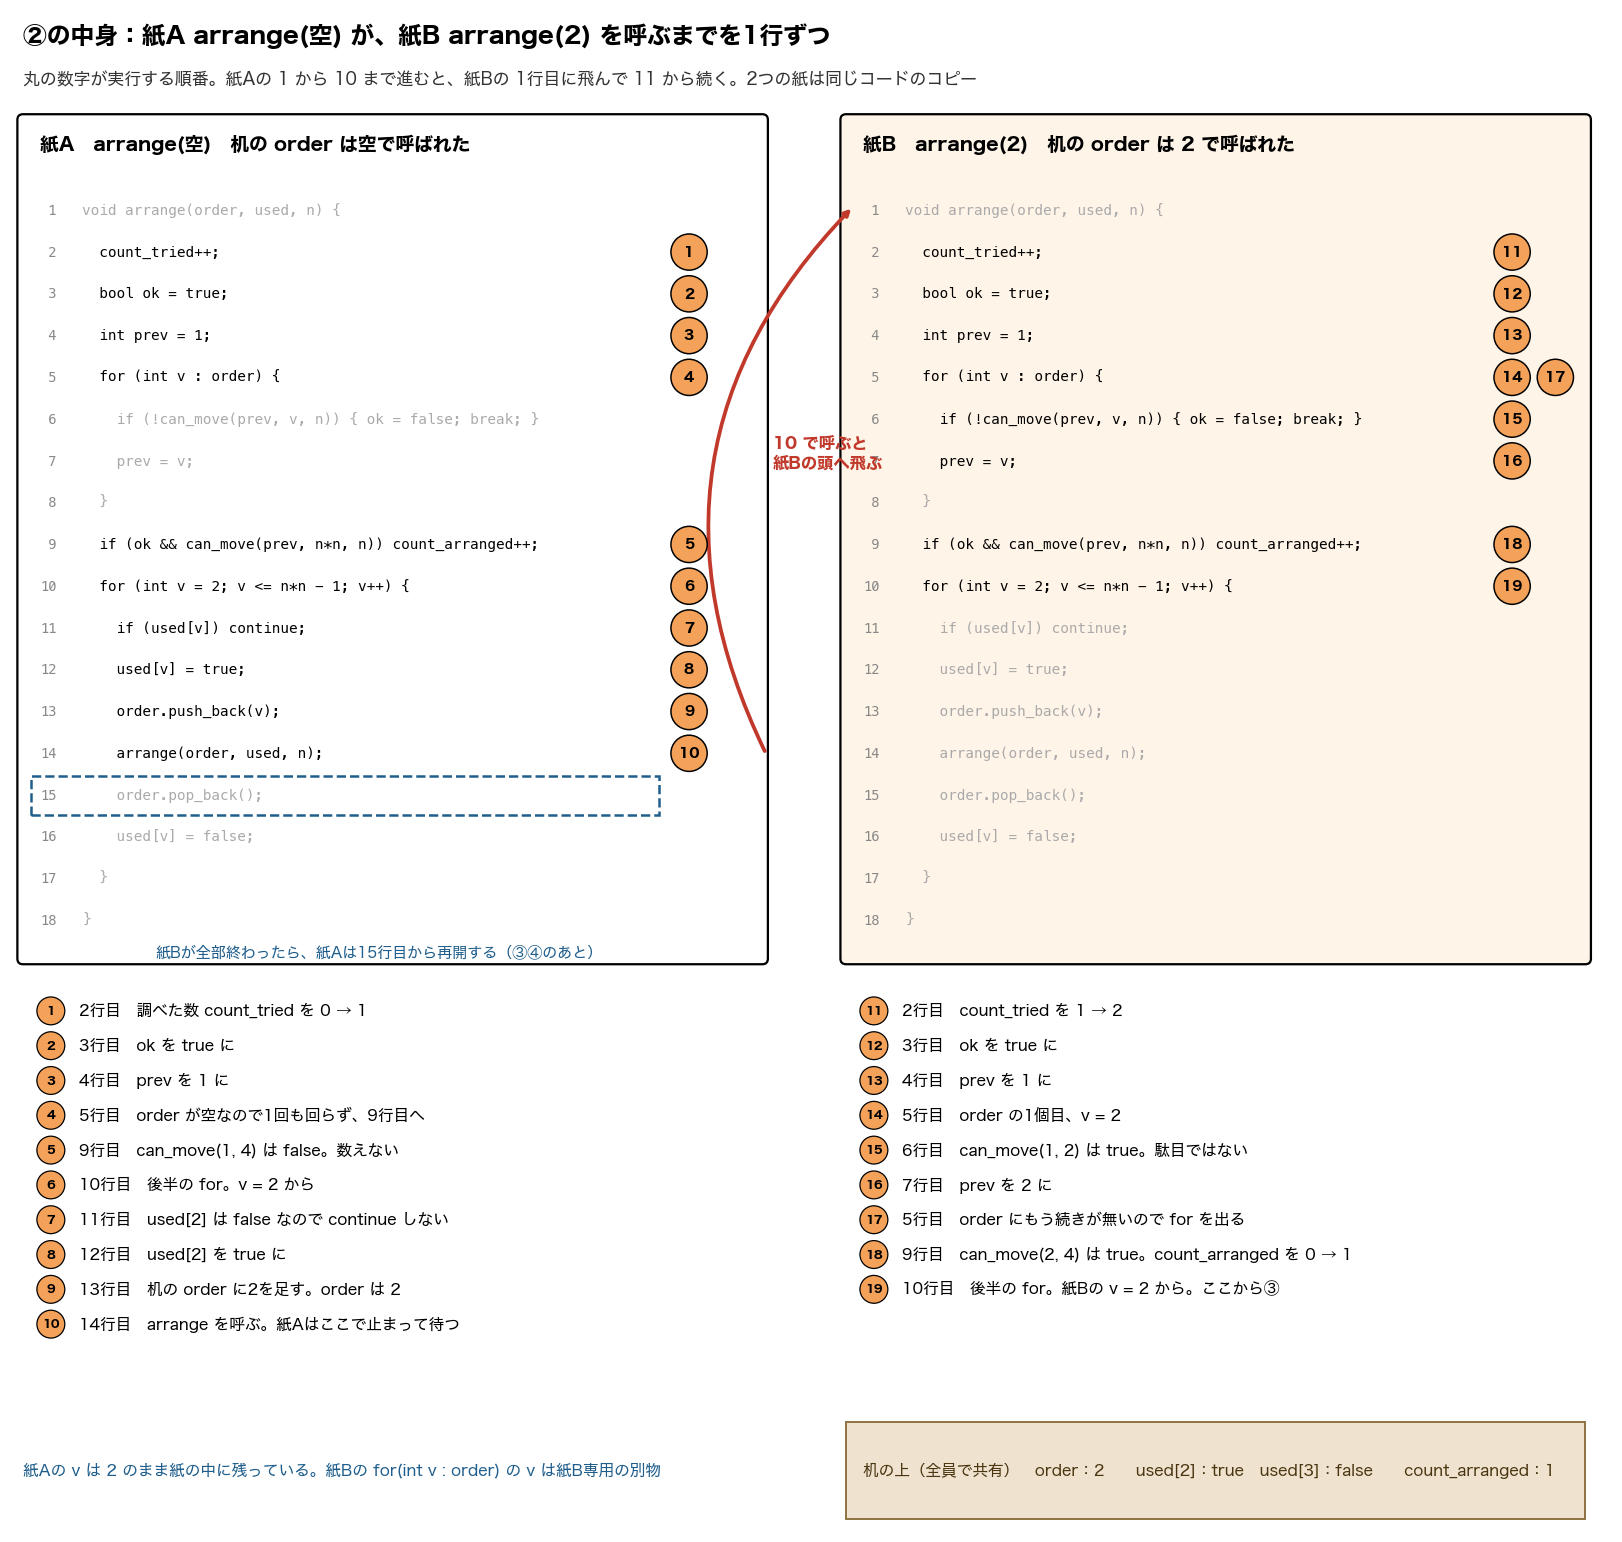
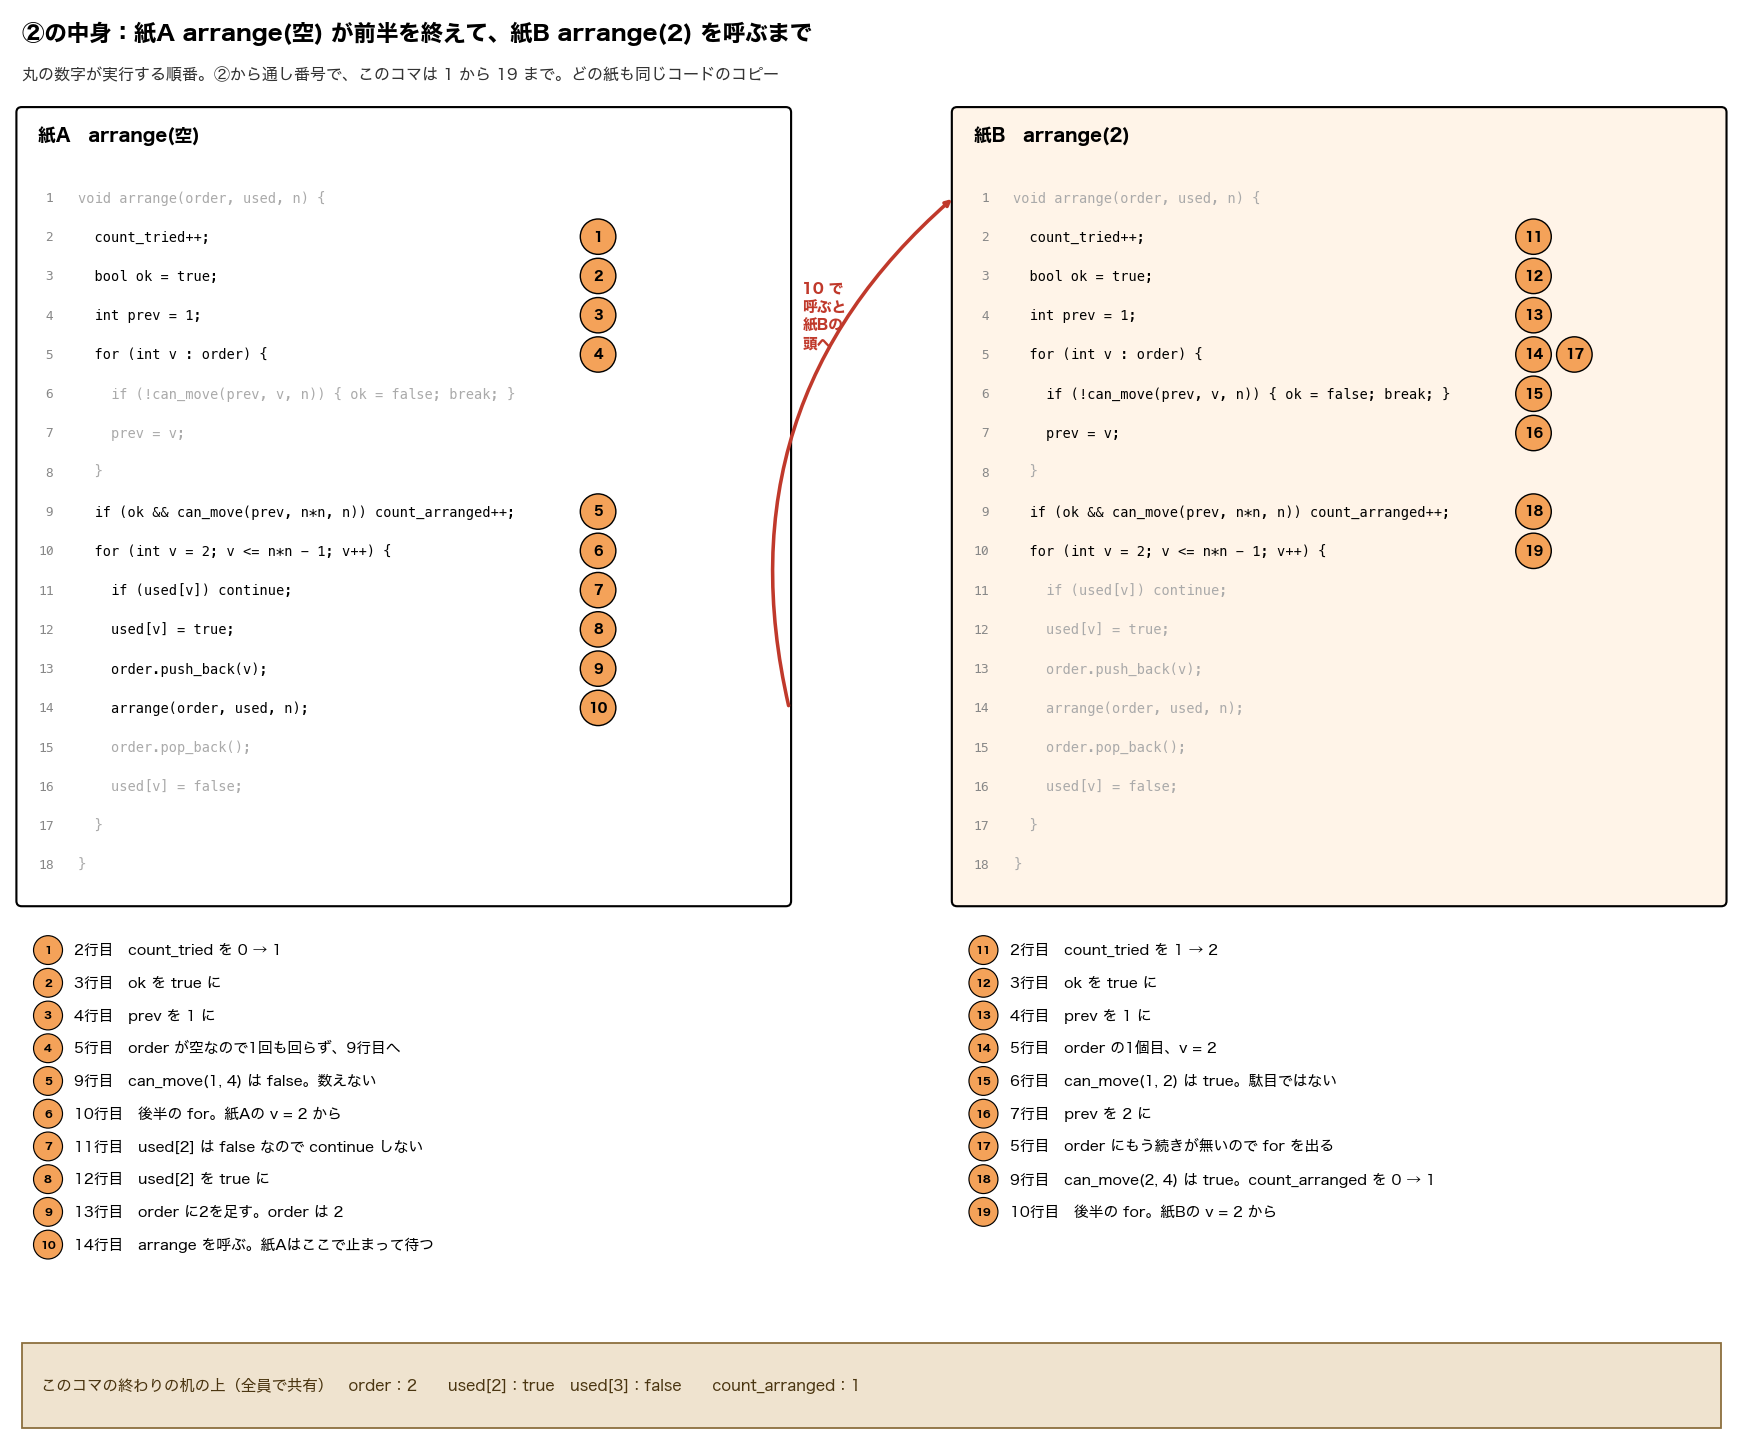
試問カードを更新 10/14 09:45

diff --git a/index.html b/index.html
@@ -97,7 +97,7 @@ table.trace td, table.trace th { text-align: left; }
   <header>
     <h1>実験F 試問カード</h1>
     <p class="when"><b>10/14(水) 10:15から</b>　S414、和佐先生の居室</p>
-    <p class="when">最終更新 <span id="updated">10/14 09:42</span>。青い印は10/14に自分で質問して足したカード</p>
+    <p class="when">最終更新 <span id="updated">10/14 09:45</span>。青い印は10/14に自分で質問して足したカード</p>
   </header>
 
   <div class="bar">
@@ -503,7 +503,6 @@ void arrange(std::vector&lt;int&gt; &amp;order, std::vector&lt;bool&gt; &amp;use
   }
 }</pre>
       <figure class="fig wide"><img src="図/解説図_F1-3_方法2を紙の重なりで.png" alt="arrange を呼ぶたびに同じ手順書の紙を上に重ね、終わったら捨てて下の紙が再開する様子の8コマ" loading="lazy"><figcaption>10/14に質問して足した図。関数を呼ぶと、同じ手順書の新しい紙が上に重なり、頭から実行される。下の紙は自分の v と止めた行を覚えて待つ。上の紙が終わると捨てて、下の紙が止めた行の次から再開する</figcaption></figure>
-      <figure class="fig wide"><img src="図/解説図_F1-3_方法2の②を1行ずつ.png" alt="arrange(空) が arrange(2) を呼ぶまでを行番号つきのコードで1行ずつ追った図" loading="lazy"><figcaption>10/14に質問して足した図。紙Aが14行目で arrange を呼ぶと、紙Aはそこで止まり、紙Bが1行目から同じコードを実行する。紙Bが全部終わると紙Aは15行目から再開する</figcaption></figure>
       <figure class="fig wide"><img src="図/解説図_F1-3_方法2のorderとusedの変化.png" alt="2×2で order と used が1手ずつどう変わるかの表" loading="lazy"><figcaption>10/14に質問して足した図。order の中身を変えるのは push_back と pop_back だけ。字下げが深いほど奥の呼び出し</figcaption></figure>
       <figure class="fig wide"><img src="図/解説図_F1-3_方法2のusedで飛ばす.png" alt="3×3の arrange(4, 5) で used が true の4と5を飛ばす図と、無いとどうなるか" loading="lazy"><figcaption>10/14に質問して足した図。used[v] が true の頂点は足さない。これが無いと同じ頂点を2回通り、再帰も止まらない</figcaption></figure>
       <ul class="pt">
@@ -526,6 +525,23 @@ void arrange(std::vector&lt;int&gt; &amp;order, std::vector&lt;bool&gt; &amp;use
         <li>main では order を空、used を n*n+1 個の false で作ってから arrange(order, used, n) を1回呼ぶ。3×3なら used は0から9の10個で、0番は使わない</li>
         <li>&amp; が無いと、呼ぶたびに order と used のコピーが作られる。&amp; があるので、何段呼んでも同じ1本の配列を全員で使う</li>
         <li>関数の終わりまで来ると、呼び出し元の for の続きに戻る。最初の呼び出しの for が終わると全体が終わる</li>
+      </ul>
+    </div></details>
+
+    <details class="card" id="f1-3-gyou2"><summary><span class="q">方法2を2×2で1行ずつ、紙の重なりの全コマで追うと？</span><span class="chip new">10/14に質問</span></summary><div class="a">
+      <p class="say">arrange を呼ぶと、同じコードの新しい紙が上に重なって1行目から実行されます。呼んだ側の紙は14行目で止まって待ち、上の紙が18行目まで行くと15行目から再開します。2×2では全部で89手、5通りを調べて2本です。</p>
+      <figure class="fig wide"><img src="図/解説図_F1-3_方法2を紙の重なりで.png" alt="紙の重なりの8コマ" loading="lazy"><figcaption>まず全体の8コマ。下の図はその②から⑧の中身を1行ずつ追ったもの</figcaption></figure>
+      <figure class="fig wide"><img src="図/解説図_F1-3_方法2の②を1行ずつ.png" alt="②の中身を行番号つきのコードで追った図" loading="lazy"><figcaption>② 紙A arrange(空) が前半を終えて、紙B arrange(2) を呼ぶまで</figcaption></figure>
+      <figure class="fig wide"><img src="図/解説図_F1-3_方法2の③を1行ずつ.png" alt="③の中身を行番号つきのコードで追った図" loading="lazy"><figcaption>③ 紙B が v=2 を飛ばし、v=3 を足して紙C arrange(2, 3) を呼ぶまで</figcaption></figure>
+      <figure class="fig wide"><img src="図/解説図_F1-3_方法2の④を1行ずつ.png" alt="④の中身を行番号つきのコードで追った図" loading="lazy"><figcaption>④ 紙C は誰も呼ばずに終わり、紙B が15行目から再開して3を外す</figcaption></figure>
+      <figure class="fig wide"><img src="図/解説図_F1-3_方法2の⑤を1行ずつ.png" alt="⑤の中身を行番号つきのコードで追った図" loading="lazy"><figcaption>⑤ 紙B の for が終わって紙B も終わり、紙A が15行目から再開して2を外す</figcaption></figure>
+      <figure class="fig wide"><img src="図/解説図_F1-3_方法2の⑥を1行ずつ.png" alt="⑥の中身を行番号つきのコードで追った図" loading="lazy"><figcaption>⑥ 紙A が for の続きで v=3 を足し、紙D arrange(3) を呼ぶ</figcaption></figure>
+      <figure class="fig wide"><img src="図/解説図_F1-3_方法2の⑦を1行ずつ.png" alt="⑦の中身を行番号つきのコードで追った図" loading="lazy"><figcaption>⑦ 紙D が v=2 を足して、紙E arrange(3, 2) を呼ぶ</figcaption></figure>
+      <figure class="fig wide"><img src="図/解説図_F1-3_方法2の⑧を1行ずつ.png" alt="⑧の中身を行番号つきのコードで追った図" loading="lazy"><figcaption>⑧ 紙E、紙D、紙A の順に全部終わって main に戻る</figcaption></figure>
+      <ul class="pt">
+        <li>丸の数字は②から通しの実行順。2×2の arrange を実際に1行ずつ動かして記録したもので、最後に count_tried 5、count_arranged 2 になり実物と一致する</li>
+        <li>赤い矢印が呼ぶところ、14行目から次の紙の頭へ。青い矢印が戻るところ、18行目から呼んだ紙の15行目へ</li>
+        <li>どの紙も自分の v を持っているので、戻ってきたあと10行目の v++ で続きの頂点に進める</li>
       </ul>
     </div></details>
 
